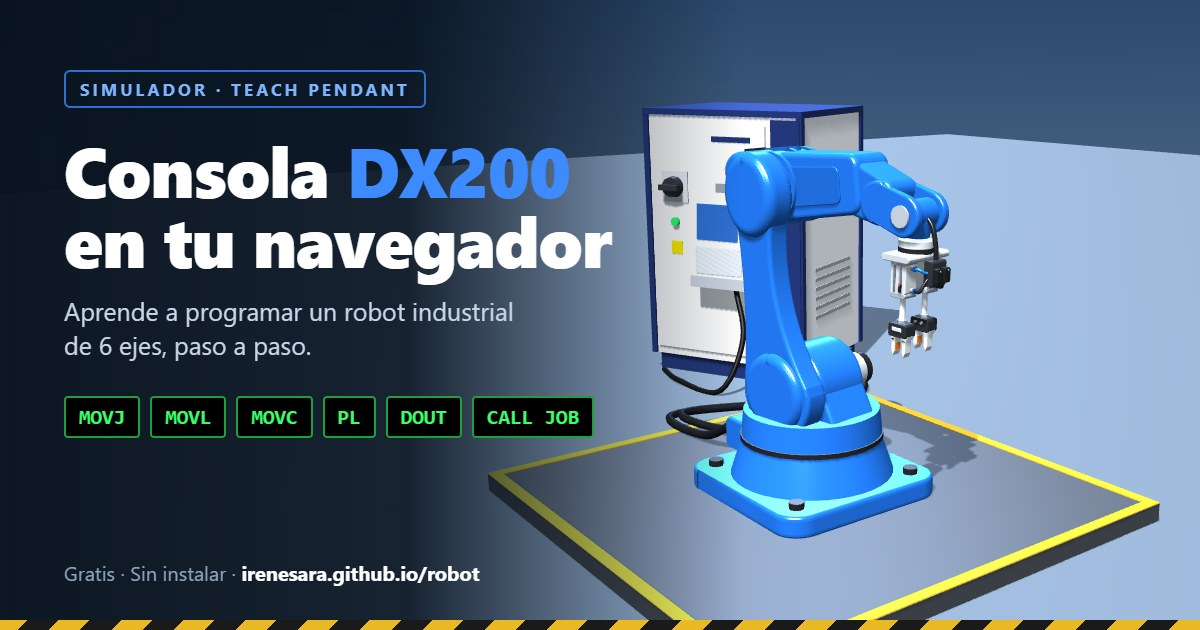
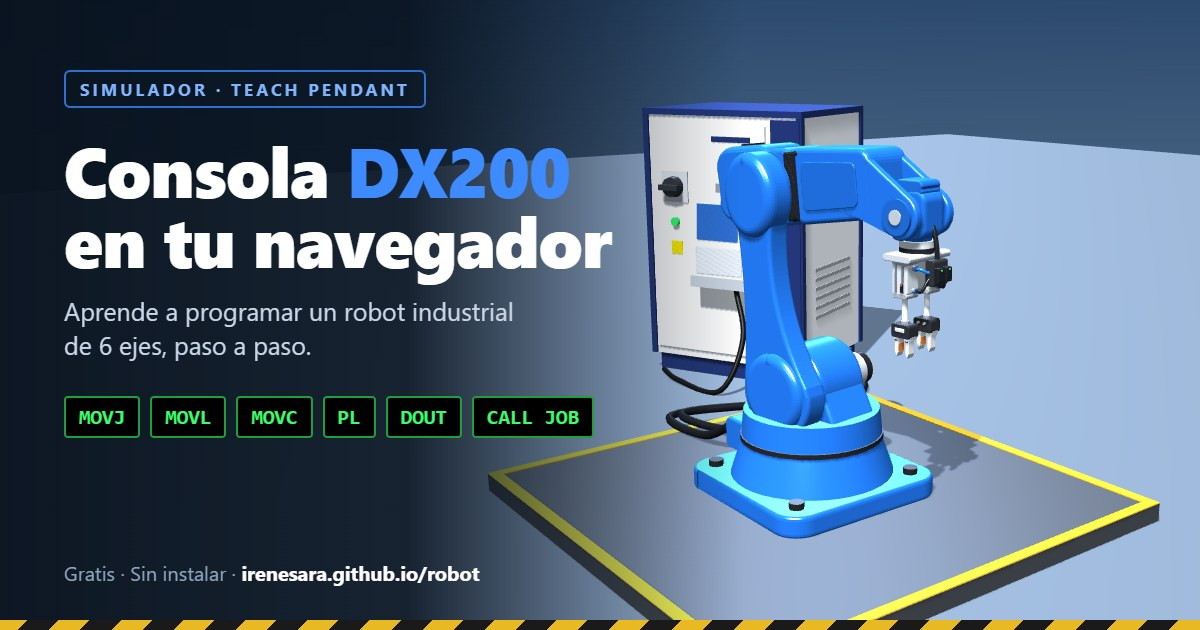
Add files via upload

Changed region(s): [[0.5858, 0.2111, 0.8017, 0.573], [0.7708, 0.7238, 0.8017, 0.754], [0.74, 0.6635, 0.7708, 0.6937]]

diff --git a/index.html b/index.html
@@ -1660,36 +1660,24 @@ function buildRobot() {
         joint2.add(rib);
     });
 
-    // Carcasa trasera (aloja los motores de muñeca R/B/T)
-    const uCase = roundedBox(0.10, 0.092, 0.082, 0.024, yBlue);
-    uCase.position.set(-0.055, 0.004, 0);
+    // Carcasa trasera grande (aloja los motores de muñeca R/B/T)
+    const uCase = roundedBox(0.12, 0.104, 0.09, 0.026, yBlue);
+    uCase.position.set(-0.06, 0.006, 0);
     joint2.add(uCase);
-    const rearCover = roundedBox(0.018, 0.07, 0.066, 0.008, yGrey);
-    rearCover.position.set(-0.108, 0.004, 0);
+    const rearCover = roundedBox(0.018, 0.08, 0.072, 0.008, yGrey);
+    rearCover.position.set(-0.122, 0.006, 0);
     joint2.add(rearCover);
-    const rearConn = new THREE.Mesh(new THREE.BoxGeometry(0.02, 0.016, 0.03), M(yDark));
-    rearConn.position.set(-0.075, 0.054, 0);
+    const rearConn = new THREE.Mesh(new THREE.BoxGeometry(0.022, 0.016, 0.032), M(yDark));
+    rearConn.position.set(-0.08, 0.062, 0);
     joint2.add(rearConn);
 
     // Motor del eje U (lado opuesto al brazo inferior)
-    servoMotor(joint2, 0, 0, -0.044, -1);
+    servoMotor(joint2, 0, 0, -0.045, -1);
 
-    // Antebrazo: viga larga, recta y que se estrecha hacia la muñeca (zona del logotipo)
-    const foreBeam = taperBeam(0.17, 0.047, 0.037, 0.074, 0.014, yBlue);
-    foreBeam.position.x = 0.005;
-    joint2.add(foreBeam);
-
-    // Cubierta lateral ligeramente rehundida (donde va el rótulo en el robot real)
-    [-1, 1].forEach(side => {
-        const panel = taperBeam(0.11, 0.03, 0.026, 0.004, 0.01, 0x1a5ab4, 0.0015);
-        panel.position.set(0.035, 0, side * 0.0375);
-        joint2.add(panel);
-    });
-
-    const wristBase = new THREE.Mesh(new THREE.SphereGeometry(0.036, 24, 16), M(yBlue));
-    wristBase.castShadow = true;
-    wristBase.position.x = 0.15;
-    joint2.add(wristBase);
+    // Collar fijo del codo: el eje R gira justo a la salida del codo, como en el Motoman
+    const foreCollar = taperBeam(0.045, 0.054, 0.052, 0.088, 0.016, yBlue, 0.009);
+    foreCollar.position.x = 0.002;
+    joint2.add(foreCollar);
 
     joints.push(joint2);
 
@@ -1698,25 +1686,54 @@ function buildRobot() {
     joint3.position.x = 0.15; // Pivote eje R (no cambiar)
     joint2.add(joint3);
 
-    // Junta giratoria del eje R
-    const rSeal = roundedBox(0.006, 0.07, 0.066, 0.012, yDark);
-    rSeal.position.x = 0.004;
-    joint3.add(rSeal);
+    // El eje R gira sobre la línea recta del antebrazo: este grupo deshace la inclinación
+    // de -23° del frame, así la parte delantera sigue recta y gira con R (cinemática intacta).
+    const rAligned = new THREE.Group();
+    rAligned.rotation.z = 23 * Math.PI / 180;
+    joint3.add(rAligned);
 
-    // Tramo delantero del antebrazo (gira con R)
-    const rBeam = taperBeam(0.075, 0.034, 0.028, 0.062, 0.012, yBlue, 0.008);
-    rBeam.position.x = 0.007;
-    joint3.add(rBeam);
+    // Junta giratoria del eje R, a la salida del codo (5 cm del eje U).
+    // Todo lo que va dentro de rAligned gira con R alrededor de la línea del antebrazo.
+    const R_SEAM_X = -0.10;   // en coordenadas de rAligned (origen en x = 0.15 del codo)
+    const rSeal = roundedBox(0.006, 0.1, 0.09, 0.016, yDark);
+    rSeal.position.x = R_SEAM_X + 0.001;
+    rAligned.add(rSeal);
 
-    // Cabeza de la muñeca: horquilla con dos placas que sujetan el eje B
+    // Antebrazo: viga grande, recta y de lados planos (zona del logotipo), gira con R.
+    // Termina antes de la muñeca: a partir de ahí sigue en dos placas separadas (horquilla).
+    const rBeam = taperBeam(0.151, 0.052, 0.044, 0.086, 0.016, yBlue, 0.009);
+    rBeam.position.x = R_SEAM_X + 0.004;
+    rAligned.add(rBeam);
+    // Paneles laterales planos (donde va el rótulo en el robot real)
     [-1, 1].forEach(side => {
-        const fork = linkPlate(0.05, 0.028, 0.027, 0.013, yBlue, 0.004);
-        fork.position.set(0.07, 0, side * 0.0295);
-        joint3.add(fork);
+        const panel = taperBeam(0.11, 0.036, 0.031, 0.004, 0.01, 0x1a5ab4, 0.0015);
+        panel.position.set(R_SEAM_X + 0.025, 0, side * 0.0435);
+        rAligned.add(panel);
     });
-    const forkBridge = roundedBox(0.02, 0.054, 0.072, 0.01, yBlue);
-    forkBridge.position.set(0.072, 0, 0);
-    joint3.add(forkBridge);
+    // Tapa superior
+    const topCover = roundedBox(0.09, 0.006, 0.06, 0.003, 0x1a5ab4);
+    topCover.position.set(R_SEAM_X + 0.075, 0.048, 0);
+    rAligned.add(topCover);
+
+    // Horquilla: dos placas separadas que bajan hasta el eje B (abiertas por arriba y por delante,
+    // para que la muñeca pueda girar hacia arriba y hacia abajo entre ellas)
+    const bX = 0.12 * Math.cos(23 * Math.PI / 180), bY = -0.12 * Math.sin(23 * Math.PI / 180);
+    const forkStart = new THREE.Vector2(0.03, 0);
+    const forkLen = Math.hypot(bX - forkStart.x, bY - forkStart.y);
+    const forkAng = Math.atan2(bY - forkStart.y, bX - forkStart.x);
+    [-1, 1].forEach(side => {
+        const fork = linkPlate(forkLen, 0.043, 0.03, 0.014, yBlue, 0.004);
+        fork.rotation.z = forkAng;
+        fork.position.set(forkStart.x, forkStart.y, side * 0.036);
+        rAligned.add(fork);
+        // Tapa redonda del eje B por fuera de cada placa
+        const bCover = cyl(0.026, 0.026, 0.005, 0x1a58b0, 'z', 32);
+        bCover.position.set(bX, bY, side * 0.0455);
+        rAligned.add(bCover);
+        const bCenter = cyl(0.011, 0.011, 0.003, yGrey, 'z', 20);
+        bCenter.position.set(bX, bY, side * 0.049);
+        rAligned.add(bCenter);
+    });
     joints.push(joint3);
 
     // ================= EJE B (cabeceo de muñeca) =================
@@ -1724,16 +1741,23 @@ function buildRobot() {
     joint4.position.x = 0.12; // Pivote eje B (no cambiar)
     joint3.add(joint4);
 
-    const bHub = cyl(0.022, 0.022, 0.046, yBlue, 'z');
+    // Cuerpo de la muñeca: gira con B entre las dos placas de la horquilla
+    const bHub = cyl(0.022, 0.022, 0.058, 0x174a94, 'z');
     joint4.add(bHub);
-    const bCapA = cyl(0.016, 0.016, 0.004, yGrey, 'z');
-    bCapA.position.z = 0.038;
-    joint4.add(bCapA);
-    const bCapB = cyl(0.016, 0.016, 0.004, yGrey, 'z');
-    bCapB.position.z = -0.038;
-    joint4.add(bCapB);
-    const bNose = cyl(0.019, 0.022, 0.03, yBlue, 'x');
-    bNose.position.x = 0.018;
+    const wristBody = roundedBox(0.062, 0.054, 0.046, 0.012, yBlue);
+    wristBody.position.x = -0.001;
+    joint4.add(wristBody);
+    // Tapa del motor del eje T (detrás, en el lado opuesto a la brida)
+    const tMotorCover = roundedBox(0.018, 0.046, 0.042, 0.006, 0x1a5ab4);
+    tMotorCover.position.x = -0.039;
+    joint4.add(tMotorCover);
+    // Etiqueta roja de sentido de giro
+    const tLabel = new THREE.Mesh(new THREE.BoxGeometry(0.03, 0.0015, 0.02), M(0xd02020, 30));
+    tLabel.position.set(0.006, 0.0275, 0);
+    joint4.add(tLabel);
+    // Salida hacia la brida
+    const bNose = cyl(0.021, 0.024, 0.014, yBlue, 'x');
+    bNose.position.x = 0.031;
     joint4.add(bNose);
     joints.push(joint4);
 
